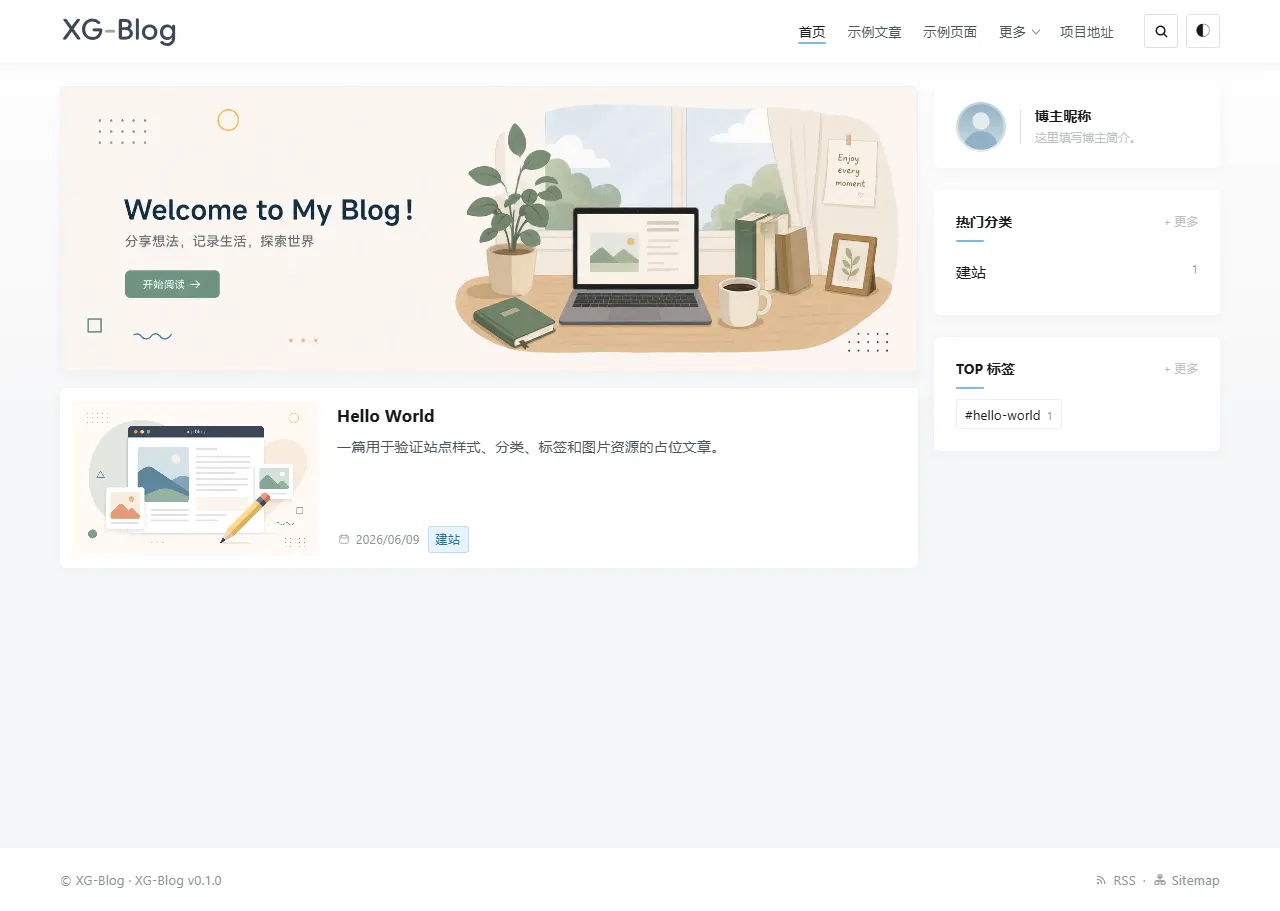
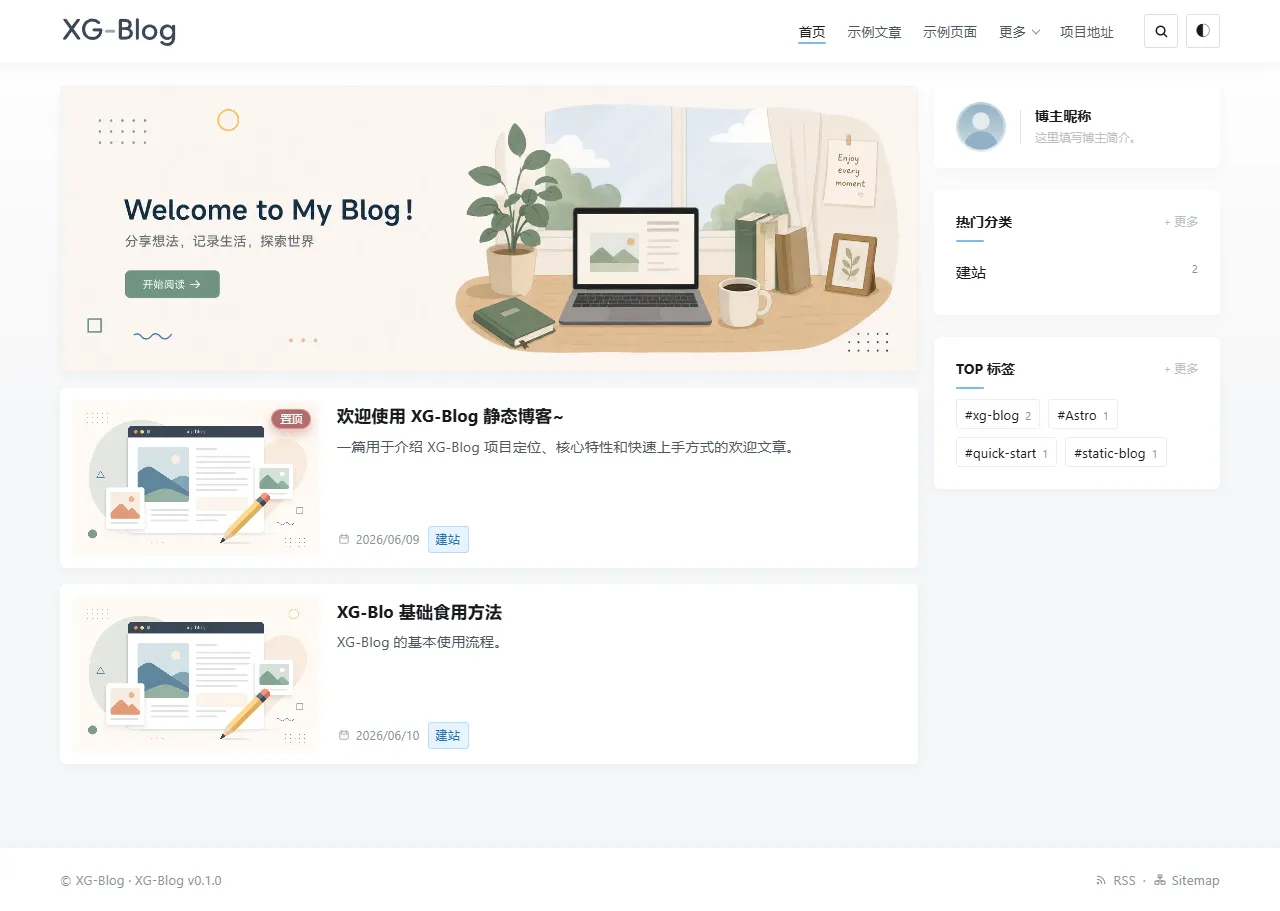
修改示例图片、修正表格描边问题

diff --git a/src/content.config.ts b/src/content.config.ts
@@ -1,13 +1,30 @@
 import { defineCollection, z } from 'astro:content';
 import { glob } from 'astro/loaders';
+import { readdirSync } from 'node:fs';
 
 const normalizeSlug = (value: string) => value.trim().toLowerCase();
 const contentEntryId = ({ entry }: { entry: string }) =>
   entry.replace(/\\/g, '/').replace(/\/index(?:\.md)?$/, '').replace(/\.md$/, '');
 
+function hasUserContent(collection: 'posts' | 'pages') {
+  try {
+    return readdirSync(`blog/${collection}`, { withFileTypes: true }).some((entry) => entry.isDirectory());
+  } catch {
+    return false;
+  }
+}
+
+const postPatterns = hasUserContent('posts')
+  ? ['blog/posts/**/index.md']
+  : ['blog/posts/**/index.md', 'example/posts/**/index.md'];
+
+const pagePatterns = hasUserContent('pages')
+  ? ['blog/pages/*/index.md']
+  : ['blog/pages/*/index.md', 'example/pages/*/index.md'];
+
 const posts = defineCollection({
   loader: glob({
-    pattern: ['blog/posts/**/index.md', 'example/posts/**/index.md'],
+    pattern: postPatterns,
     base: './',
     generateId: contentEntryId,
   }),
@@ -26,7 +43,7 @@ const posts = defineCollection({
 
 const pages = defineCollection({
   loader: glob({
-    pattern: ['blog/pages/*/index.md', 'example/pages/*/index.md'],
+    pattern: pagePatterns,
     base: './',
     generateId: contentEntryId,
   }),

diff --git a/src/templates/styles/global.css b/src/templates/styles/global.css
@@ -1871,7 +1871,6 @@ pagefind-modal[data-pf-theme="dark"] {
   max-width: 100%;
   overflow-x: auto;
   border-collapse: collapse;
-  border: 1px solid var(--line);
   border-radius: var(--radius-sm);
 }
 